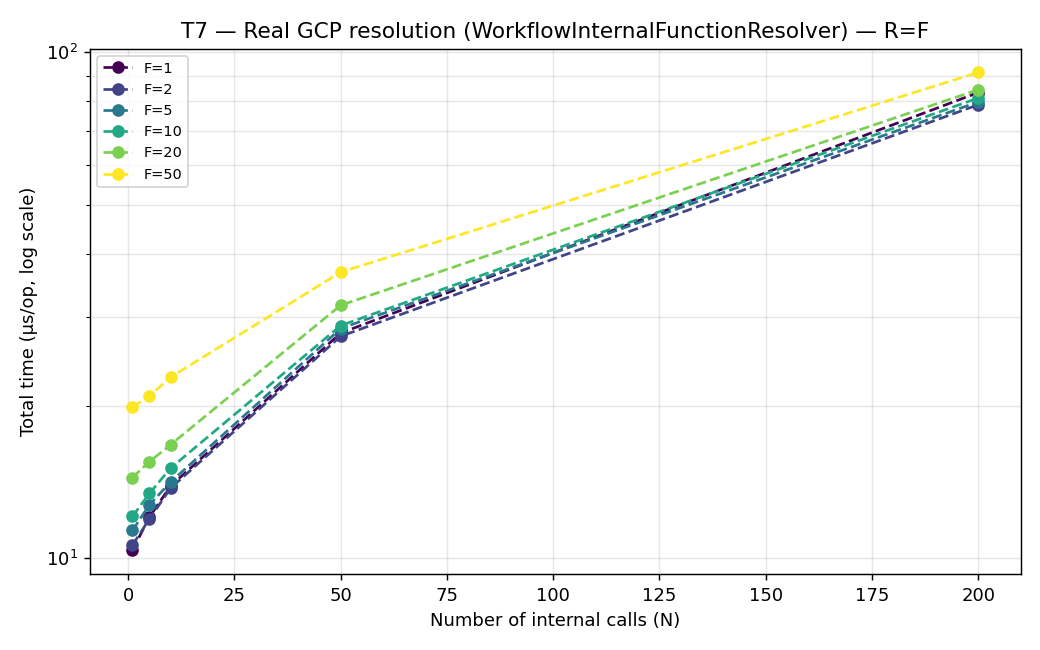
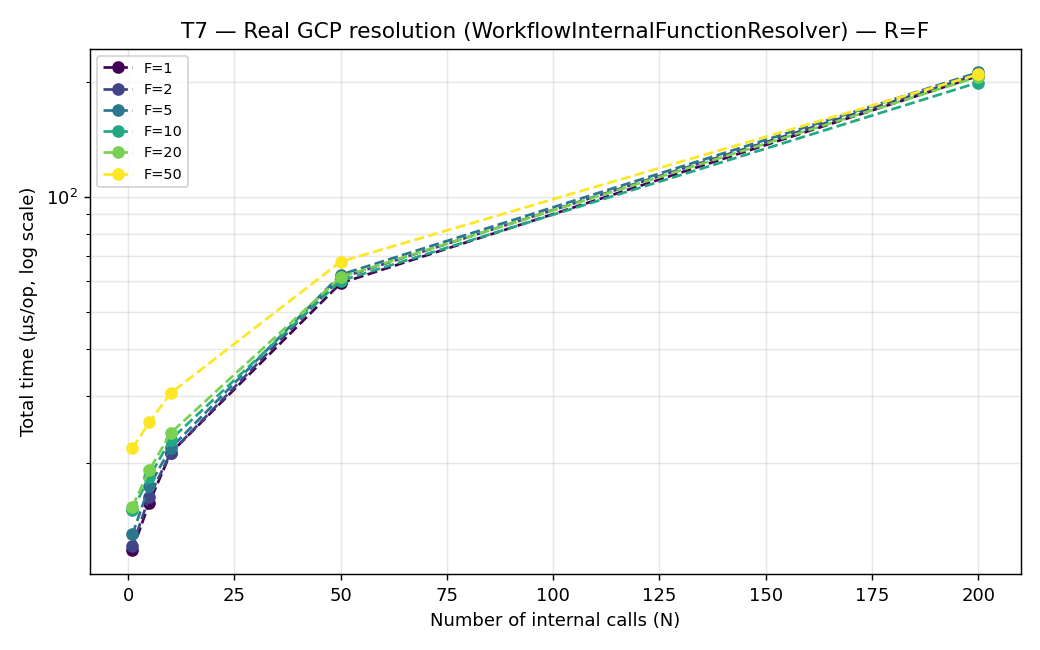
Validate every hit in the T7 benchmark and re-measure it
The 2nd gen merge removed the first-generation short-circuit that T7
relied on, so its registry hits now reach Cloud Run. T7 keeps the real
CloudRunV2ServiceInspector and swaps only its HttpClient for one that
answers each services.get locally, so the request, token and JSON
parsing are measured and only the network round-trip is not.

Re-measured with -f 3 -wi 3 -i 5 -w 1 -r 1: F=10/N=200 goes from 81.3 to
199.1 us (about 0.95 us per call). Six T6 points measured in the same
session came out 1-7% above their 2026-09-12 values.

Changed region(s): [[0.1231, 0.0923, 0.9538, 0.8308], [0.0308, 0.0615, 0.0923, 0.0923], [0.0615, 0.2769, 0.0923, 0.3077]]

diff --git a/omni-flow-main/benchmark/src/main/kotlin/costaber/com/github/omniflow/metrics/BenchmarkGoogleInternalFunctionResolution.kt b/omni-flow-main/benchmark/src/main/kotlin/costaber/com/github/omniflow/metrics/BenchmarkGoogleInternalFunctionResolution.kt
@@ -24,29 +24,45 @@ import org.openjdk.jmh.annotations.State
 import org.openjdk.jmh.annotations.TearDown
 import org.openjdk.jmh.annotations.Warmup
 import org.openjdk.jmh.infra.Blackhole
+import java.net.Authenticator
+import java.net.CookieHandler
+import java.net.ProxySelector
+import java.net.URI
+import java.net.http.HttpClient
+import java.net.http.HttpHeaders
+import java.net.http.HttpRequest
+import java.net.http.HttpResponse
 import java.nio.file.Files
 import java.nio.file.Path
+import java.time.Duration
+import java.util.Optional
+import java.util.concurrent.CompletableFuture
+import java.util.concurrent.Executor
 import java.util.concurrent.TimeUnit
+import javax.net.ssl.SSLContext
+import javax.net.ssl.SSLParameters
+import javax.net.ssl.SSLSession
 
 /**
  * T7 - GCP twin of T6: cost of the REAL auto-deploy resolver,
  * [WorkflowInternalFunctionResolver.resolve], vs the number of internal calls (N) and registry
  * size (R=F), same grid as T4/T6.
  *
- * Registry entries use `.cloudfunctions.net` URLs (1st-gen Cloud Function) so that
- * `resolveOrDiscoverInternal`'s `isFirstGenCloudFunction` check short-circuits BEFORE any Cloud
- * Run REST call (`inspector.lookupByServiceName`) or region discovery (`regions`, a `by lazy`
- * that would call `locationsClient.listProjectLocations`) - pure local file I/O, no network.
+ * Every registry hit is validated against Cloud Run (`inspector.lookupByServiceName`), once per
+ * call. The benchmark keeps the real [CloudRunV2ServiceInspector] - token lookup, request
+ * building, JSON parsing - and swaps only its [HttpClient] for [FakeCloudRunHttpClient], which
+ * answers every `services.get` locally with the registered `run.app` URL (no drift, no
+ * rediscovery). As in T6, this measures the local part of the cascade: no network.
  *
  * GOTCHA: both [CloudRunV2ServiceInspector] and [CloudRunLocationsV1RestClient] default-construct
  * a [GoogleAccessTokenProvider], whose OWN default argument calls
  * `GoogleCredentials.getApplicationDefault()` EAGERLY at construction time (not lazily when a
  * token is actually requested). So merely instantiating either class with no-arg defaults would
  * try to resolve real Application Default Credentials and fail/hang without
- * `gcloud auth application-default login` configured on the machine - even though, on this
- * registry-hit-only benchmark path, no token is ever actually used. Both are therefore
+ * `gcloud auth application-default login` configured on the machine. Both are therefore
  * constructed here with an explicit [GoogleAccessTokenProvider] wrapping a fixed dummy
- * [AccessToken] (via [GoogleCredentials.create], which does no I/O), avoiding ADC entirely.
+ * [AccessToken] with no expiry (via [GoogleCredentials.create], which does no I/O), avoiding ADC
+ * entirely.
  */
 @BenchmarkMode(Mode.AverageTime)
 @OutputTimeUnit(TimeUnit.MICROSECONDS)
@@ -73,13 +89,13 @@ open class BenchmarkGoogleInternalFunctionResolution {
         registryFile = Files.createTempFile("omniflow-bench-t7-registry", ".json")
         val store = FunctionRegistryStore(registryFile)
 
-        // Registry holds exactly the F functions the workflow references (R = F), with 1st-gen
-        // Cloud Function URLs -> always a registry hit that short-circuits before Cloud Run/ADC.
+        // Registry holds exactly the F functions the workflow references (R = F) -> always a
+        // registry hit, which FakeCloudRunHttpClient confirms with the same URL.
         val functions = (0 until f).associate { idx ->
             val name = "$BASE$idx"
             name to FunctionInvocationMetadata(
-                serviceName = name,
-                url = "https://us-central1-bench.cloudfunctions.net/$name"
+                serviceName = "projects/$PROJECT/locations/$REGION/services/$name",
+                url = runAppUrl(name)
             )
         }
         store.writeNew(functions)
@@ -88,10 +104,12 @@ open class BenchmarkGoogleInternalFunctionResolution {
             credentials = GoogleCredentials.create(AccessToken("bench-noop-token", null))
         )
         resolver = WorkflowInternalFunctionResolver(
-            projectId = "bench-project",
+            projectId = PROJECT,
             preferredRegion = null,
             registry = store,
-            inspector = CloudRunV2ServiceInspector(tokenProvider = noAdcTokenProvider),
+            inspector = CloudRunV2ServiceInspector(
+                http = FakeCloudRunHttpClient(), tokenProvider = noAdcTokenProvider
+            ),
             locationsClient = CloudRunLocationsV1RestClient(tokenProvider = noAdcTokenProvider)
         )
 
@@ -109,7 +127,54 @@ open class BenchmarkGoogleInternalFunctionResolution {
         blackhole.consume(resolver.resolve(workflow))
     }
 
+    /**
+     * Local stand-in for the Cloud Run Admin API: answers every `services.get` with 200 and the
+     * service's `run.app` URL, as the live API does for a deployed function.
+     */
+    private class FakeCloudRunHttpClient : HttpClient() {
+        override fun <T> send(request: HttpRequest, handler: HttpResponse.BodyHandler<T>): HttpResponse<T> {
+            val name = request.uri().path.removePrefix("/v2/")
+            val body = """{"name":"$name","uri":"${runAppUrl(name.substringAfterLast('/'))}"}"""
+            @Suppress("UNCHECKED_CAST")
+            return FakeResponse(request, body as T)
+        }
+
+        override fun <T> sendAsync(request: HttpRequest, handler: HttpResponse.BodyHandler<T>) =
+            CompletableFuture.completedFuture(send(request, handler))
+
+        override fun <T> sendAsync(
+            request: HttpRequest,
+            handler: HttpResponse.BodyHandler<T>,
+            pushPromiseHandler: HttpResponse.PushPromiseHandler<T>?
+        ) = sendAsync(request, handler)
+
+        override fun cookieHandler(): Optional<CookieHandler> = Optional.empty()
+        override fun connectTimeout(): Optional<Duration> = Optional.empty()
+        override fun followRedirects(): Redirect = Redirect.NEVER
+        override fun proxy(): Optional<ProxySelector> = Optional.empty()
+        override fun sslContext(): SSLContext = SSLContext.getDefault()
+        override fun sslParameters(): SSLParameters = SSLParameters()
+        override fun authenticator(): Optional<Authenticator> = Optional.empty()
+        override fun version(): Version = Version.HTTP_2
+        override fun executor(): Optional<Executor> = Optional.empty()
+    }
+
+    private class FakeResponse<T>(private val request: HttpRequest, private val body: T) : HttpResponse<T> {
+        override fun statusCode() = 200
+        override fun request() = request
+        override fun previousResponse(): Optional<HttpResponse<T>> = Optional.empty()
+        override fun headers(): HttpHeaders = HttpHeaders.of(emptyMap()) { _, _ -> true }
+        override fun body() = body
+        override fun sslSession(): Optional<SSLSession> = Optional.empty()
+        override fun uri(): URI = request.uri()
+        override fun version() = HttpClient.Version.HTTP_2
+    }
+
     companion object {
         private const val BASE = "benchFn"
+        private const val PROJECT = "bench-project"
+        private const val REGION = "europe-west1"
+
+        private fun runAppUrl(name: String) = "https://$name-bench-ew.a.run.app"
     }
 }

diff --git a/omni-flow-main/benchmark/results/RESULTS.md b/omni-flow-main/benchmark/results/RESULTS.md
@@ -12,9 +12,12 @@ chamadas à nuvem. Geradas com JMH a partir do módulo `benchmark/`.
 > não da renderização.
 
 > **Proveniência dos números (2026-09-12).** Todos os valores abaixo vêm da execução de
-> `jmh-results-f3.csv` — toda a suite numa só sessão, com `-f 3` — exceto T6 e T7, re-medidos na
-> mesma noite e na mesma máquina depois de os resolvers de produção deixarem de escrever na consola
-> por chamada (ver a secção do T6). Substituem as execuções de agosto de 2026, feitas em várias
+> `jmh-results-f3.csv` — toda a suite numa só sessão, com `-f 3` — exceto T6 e T7. O T6 foi
+> re-medido na mesma noite e na mesma máquina, depois de os resolvers de produção deixarem de
+> escrever na consola por chamada (ver a secção do T6). O T7 foi re-medido a 2026-09-27, com as
+> mesmas opções e na mesma máquina, depois de o resolver GCP passar a validar todas as entradas
+> (funções de 2.ª geração): seis pontos do T6 medidos de novo nessa sessão ficaram 1–7% acima dos
+> valores de 09-12. Substituem as execuções de agosto de 2026, feitas em várias
 > sessões com `-f 1`, que estavam contaminadas por carga da máquina: davam valores uma a duas ordens
 > de grandeza maiores e chegavam a ser incoerentes entre si (o T9, que é o T8 mais uma pesquisa
 > falhada, saía mais barato que o T8). A mesma análise, em inglês, está no Capítulo 7 da
@@ -296,22 +299,24 @@ chamada, ~0,09 µs. Resolver 200 chamadas contra um registo de 10 funções cust
 
 | F \ N | 1 | 5 | 10 | 50 | 200 |
 |---:|---:|---:|---:|---:|---:|
-| 1 | 10,4 | 12,1 | 13,9 | 27,9 | 83,3 |
-| 2 | 10,6 | 11,9 | 13,8 | 27,5 | 78,8 |
-| 5 | 11,3 | 12,7 | 14,1 | 28,4 | 79,8 |
-| 10 | 12,1 | 13,4 | 15,1 | 28,8 | 81,3 |
-| 20 | 14,4 | 15,5 | 16,8 | 31,6 | 84,4 |
-| 50 | 19,9 | 20,9 | 22,8 | 36,8 | 91,3 |
+| 1 | 11,8 | 15,8 | 21,3 | 59,3 | 207,1 |
+| 2 | 12,1 | 16,4 | 21,3 | 61,3 | 209,1 |
+| 5 | 13,0 | 17,5 | 21,9 | 62,4 | 211,5 |
+| 10 | 15,1 | 18,4 | 23,1 | 60,2 | 199,1 |
+| 20 | 15,4 | 19,2 | 24,0 | 61,5 | 205,9 |
+| 50 | 21,9 | 25,6 | 30,6 | 67,5 | 209,0 |
 
 ![T7 — Resolução real GCP](T7_google_internal_resolution.png)
 
-**Resumo.** Gémeo GCP do T6, com URLs de 1ª geração no registo para nunca tocar na API do Cloud
-Run. Mesma forma (uma leitura — 10,4 µs em F=1, 19,9 µs em F=50 — mais uma constante por chamada),
-mas ~4× mais caro por chamada que o AWS: ~0,35 µs contra ~0,09 µs, ou 81,3 µs contra 29,1 µs em
-F=10/N=200. **A diferença é real e não é logging** (ver a nota do T6): o resolver AWS liga uma
-chamada concatenando um prefixo ao ARN que já tem, enquanto o GCP faz `URI(url)` e reconstrói
-host/path a cada chamada. O resolver de referência do T1/T4 faz esse mesmo parsing e fica entre os
-dois, a ~0,22 µs por chamada — o que fecha a explicação.
+**Resumo.** Gémeo GCP do T6. Cada *hit* é validado pelo `CloudRunV2ServiceInspector` real; só o
+`HttpClient` é substituído por um que responde localmente a cada `services.get` com o URL
+registado, por isso o pedido, o token e o parsing do JSON entram na medição e só a ida à rede fica
+de fora. Mesma forma (uma leitura mais uma validação — 11,8 µs em F=1, 21,9 µs em F=50 — mais uma
+constante por chamada), mas ~10× mais caro por chamada que o AWS: ~0,95 µs contra ~0,09 µs, ou
+199,1 µs contra 29,1 µs em F=10/N=200. Cerca de 0,35 µs por chamada é o `URI(url)` que o resolver
+GCP faz para reconstruir host/path (o resolver de referência do T1/T4 faz o mesmo parsing, a
+~0,22 µs); os ~0,6 µs restantes são o cliente Cloud Run, que o *fake* do T6 dispensa por completo.
+A comparação entre fornecedores não é, por isso, feita em pé de igualdade.
 
 ---
 
@@ -539,8 +544,9 @@ re-execução.)
    **Θ(N+R)**, com *speedup* de 200× no pior canto medido (36,7 ms → 0,18 ms) — identificar
    (T1/T2) → corrigir → quantificar (T3).
 4. Os resolvers reais de auto-deploy (T6 AWS, T7 GCP) têm essa otimização e mostram a mesma forma:
-   29,1 µs e 81,3 µs para 200 chamadas com um registo de 10 funções. A diferença entre os dois
-   fornecedores é o parsing de `URI` que o resolver GCP faz por chamada e o AWS não.
+   29,1 µs e 199,1 µs para 200 chamadas com um registo de 10 funções. A diferença entre os dois
+   fornecedores é o parsing de `URI` que o resolver GCP faz por chamada e o AWS não, mais o cliente
+   Cloud Run que o T7 mantém na validação e que o *fake* do T6 dispensa.
 5. Escrita (T8/T9): o custo por escrita é quase constante em K, logo o total é linear em K, mas
    cresce com o tamanho do registo, porque cada `put` reescreve o ficheiro inteiro. O par
    miss+escrita que precede qualquer deployment acrescenta 26–62%, a crescer com R0.

diff --git a/omni-flow-main/TESTING.md b/omni-flow-main/TESTING.md
@@ -174,7 +174,7 @@ distintas**. O `RESULTS.md` traz a mesma leitura, por secção, numa linha de ca
 | `metrics/BenchmarkResolveWorkflowByFunctionsAndCalls.kt` (**T4**) | Custo de **resolução** de um workflow real (sem render) ao longo dos seus dois eixos: nº de funções **distintas** (F) × nº de **chamadas** (N), com o registo **M=F**, com e sem a otimização de leitura? | `@Param f ∈ {1..50}` × `@Param n ∈ {1..200}`, sem cache vs. com cache | sem cache dominado por N e ~indiferente a F (Θ(N·M) com M=F pequeno); com cache quase plano; *speedup* ~44× a N=50, ~110× a N=200. |
 | `metrics/BenchmarkResolveWorkflowByRegistrySize.kt` (**T5**) | Eixo complementar do T4: efeito do **tamanho do registo** (M) na resolução, com F=10 e N=50 fixos (registo com padding além de F)? | `@Param m ∈ {10..1000}`, sem cache vs. com cache | sem cache linear em M (Θ(N·M)); com cache quase plano (Θ(N+M)); *speedup* ~41× (M=10) → ~58× (M=1000). |
 | `metrics/BenchmarkAwsInternalFunctionResolution.kt` (**T6**) | Qual o custo real do glue de auto-deploy AWS (`AwsInternalFunctionResolver.resolve`, o caminho de produção da unificação)? Lê o registo uma só vez por `resolve()` (a otimização do T3) e valida cada *hit* contra um `FakeInspector` local, sem tocar o SDK AWS. | `@Param f ∈ {1..50}` × `@Param n ∈ {1..200}`, registo pré-populado (M=F, sempre *hit*) | Θ(N+M): dominado por N (a validação de cada chamada), a crescer suavemente com F (o tamanho da leitura única). **Nota (2026-09-12):** até esta data os resolvers imprimiam 2–3 linhas por chamada resolvida, e essa escrita na consola era ~95% do tempo medido; passaram para `logger.debug` e T6/T7 foram re-medidos. |
-| `metrics/BenchmarkGoogleInternalFunctionResolution.kt` (**T7**) | Gémeo GCP do T6: custo real de `WorkflowInternalFunctionResolver.resolve`. Registo com URLs `.cloudfunctions.net` (1st-gen) para nunca tocar Cloud Run/ADC. | `@Param f ∈ {1..50}` × `@Param n ∈ {1..200}` | Mesmo padrão Θ(N+M) do T6, mas ~2,8× mais caro por chamada: o resolver GCP parte o URL em host/path com `java.net.URI` a cada chamada, onde o AWS só concatena `lambda://<arn>`. |
+| `metrics/BenchmarkGoogleInternalFunctionResolution.kt` (**T7**) | Gémeo GCP do T6: custo real de `WorkflowInternalFunctionResolver.resolve`. Cada *hit* é validado pelo `CloudRunV2ServiceInspector` real, com um `HttpClient` local que responde 200 com o URL registado (sem rede nem ADC). | `@Param f ∈ {1..50}` × `@Param n ∈ {1..200}` | Mesmo padrão Θ(N+M) do T6, mas ~10× mais caro por chamada (~0,95 µs): o parsing de `java.net.URI` a cada chamada e o cliente Cloud Run (pedido, token, JSON), que o *fake* do T6 dispensa. |
 | `metrics/BenchmarkRegistryWriteScaling.kt` (**T8**) | `FunctionRegistryStore.put` nunca foi medido: lê e reescreve o ficheiro inteiro a cada chamada, exercitado pelos resolvers reais sempre que registam uma função nova. Qual o custo de registar **K** funções sucessivas num registo que já tem **M0** entradas? | `@Param m0 ∈ {0..1000}` × `@Param k ∈ {1..100}`, `put()` chamado K vezes seguidas por invocação | Medido (run `-f 3` de 2026-09-12): o custo **por escrita** é quase constante ao longo de K (45→59 µs de K=1 a K=100 com M0=0), logo o total é ~linear em K, não Θ(K²); o que multiplica o custo é M0 (45 µs a M0=0, 490 µs a M0=1000), porque cada `put` reescreve o ficheiro inteiro. |
 | `metrics/BenchmarkRegistryMissAndDeploy.kt` (**T9**) | Custo real do caminho *miss + deploy*: `tryResolveEntry` (leitura completa que falha) seguido de `put`, exatamente o que o Nível 3 faz quando registra uma função nova. Complementa o T8, que mede só o `put`. | `@Param r0` (tamanho inicial do registo) × `@Param k` (nº de pares miss+`put` sucessivos) | Mesma grelha (R0, K) do T8, para os dois serem diretamente comparáveis; custo por escrita acima do T8, porque cada iteração paga uma leitura falhada adicional. |
 | `metrics/BenchmarkResolutionKeyMatchStrategy.kt` (**T10**) | `resolveUrlIn` tem um caminho de *fallback* por sufixo (`region/nome`) nunca exercitado pelos benchmarks anteriores (T2-T7 usam sempre nomes exatos). Esse *fallback* faz um scan O(M) em memória a cada chamada — mesmo dentro do resolver "com cache" já corrigido pelo T3. Qual o custo? | `@Param m ∈ {10..1000}`, F=10/N=50 fixos (mesmo ponto do T5), exact match vs. suffix match | Razão suffix/exact cresce monotonamente com M (~1,04× a M=10 → ~1,90× a M=1000) — o resolver "com cache" degrada-se de volta para Θ(N·M) sob chaves qualificadas por região, sem qualquer mudança no código de produção. |
